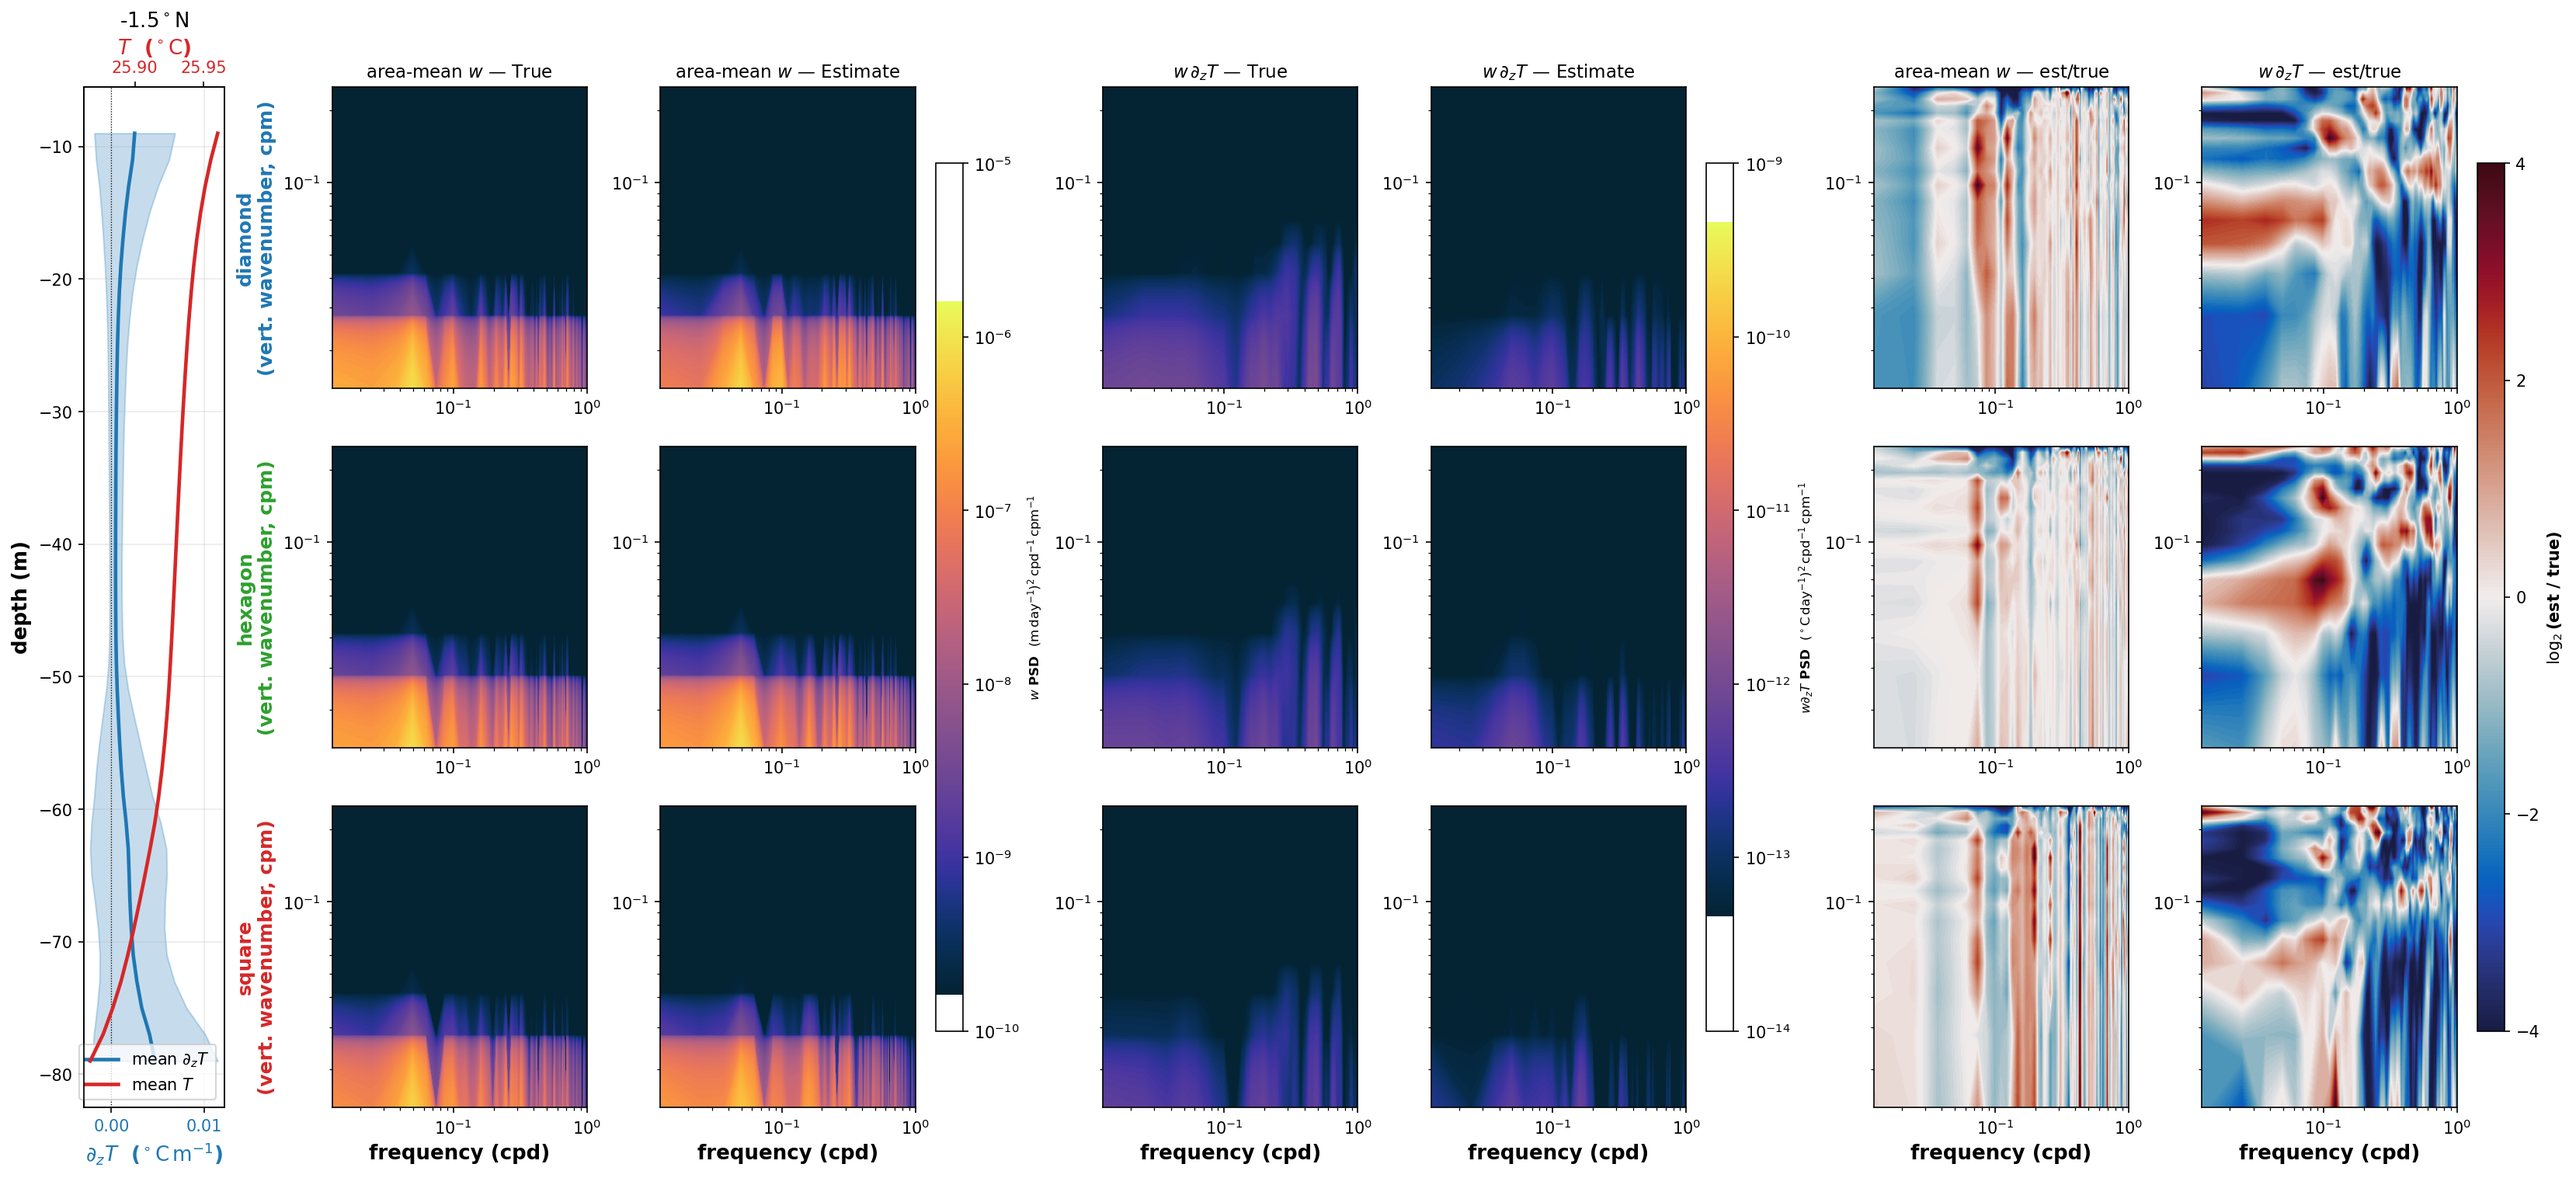
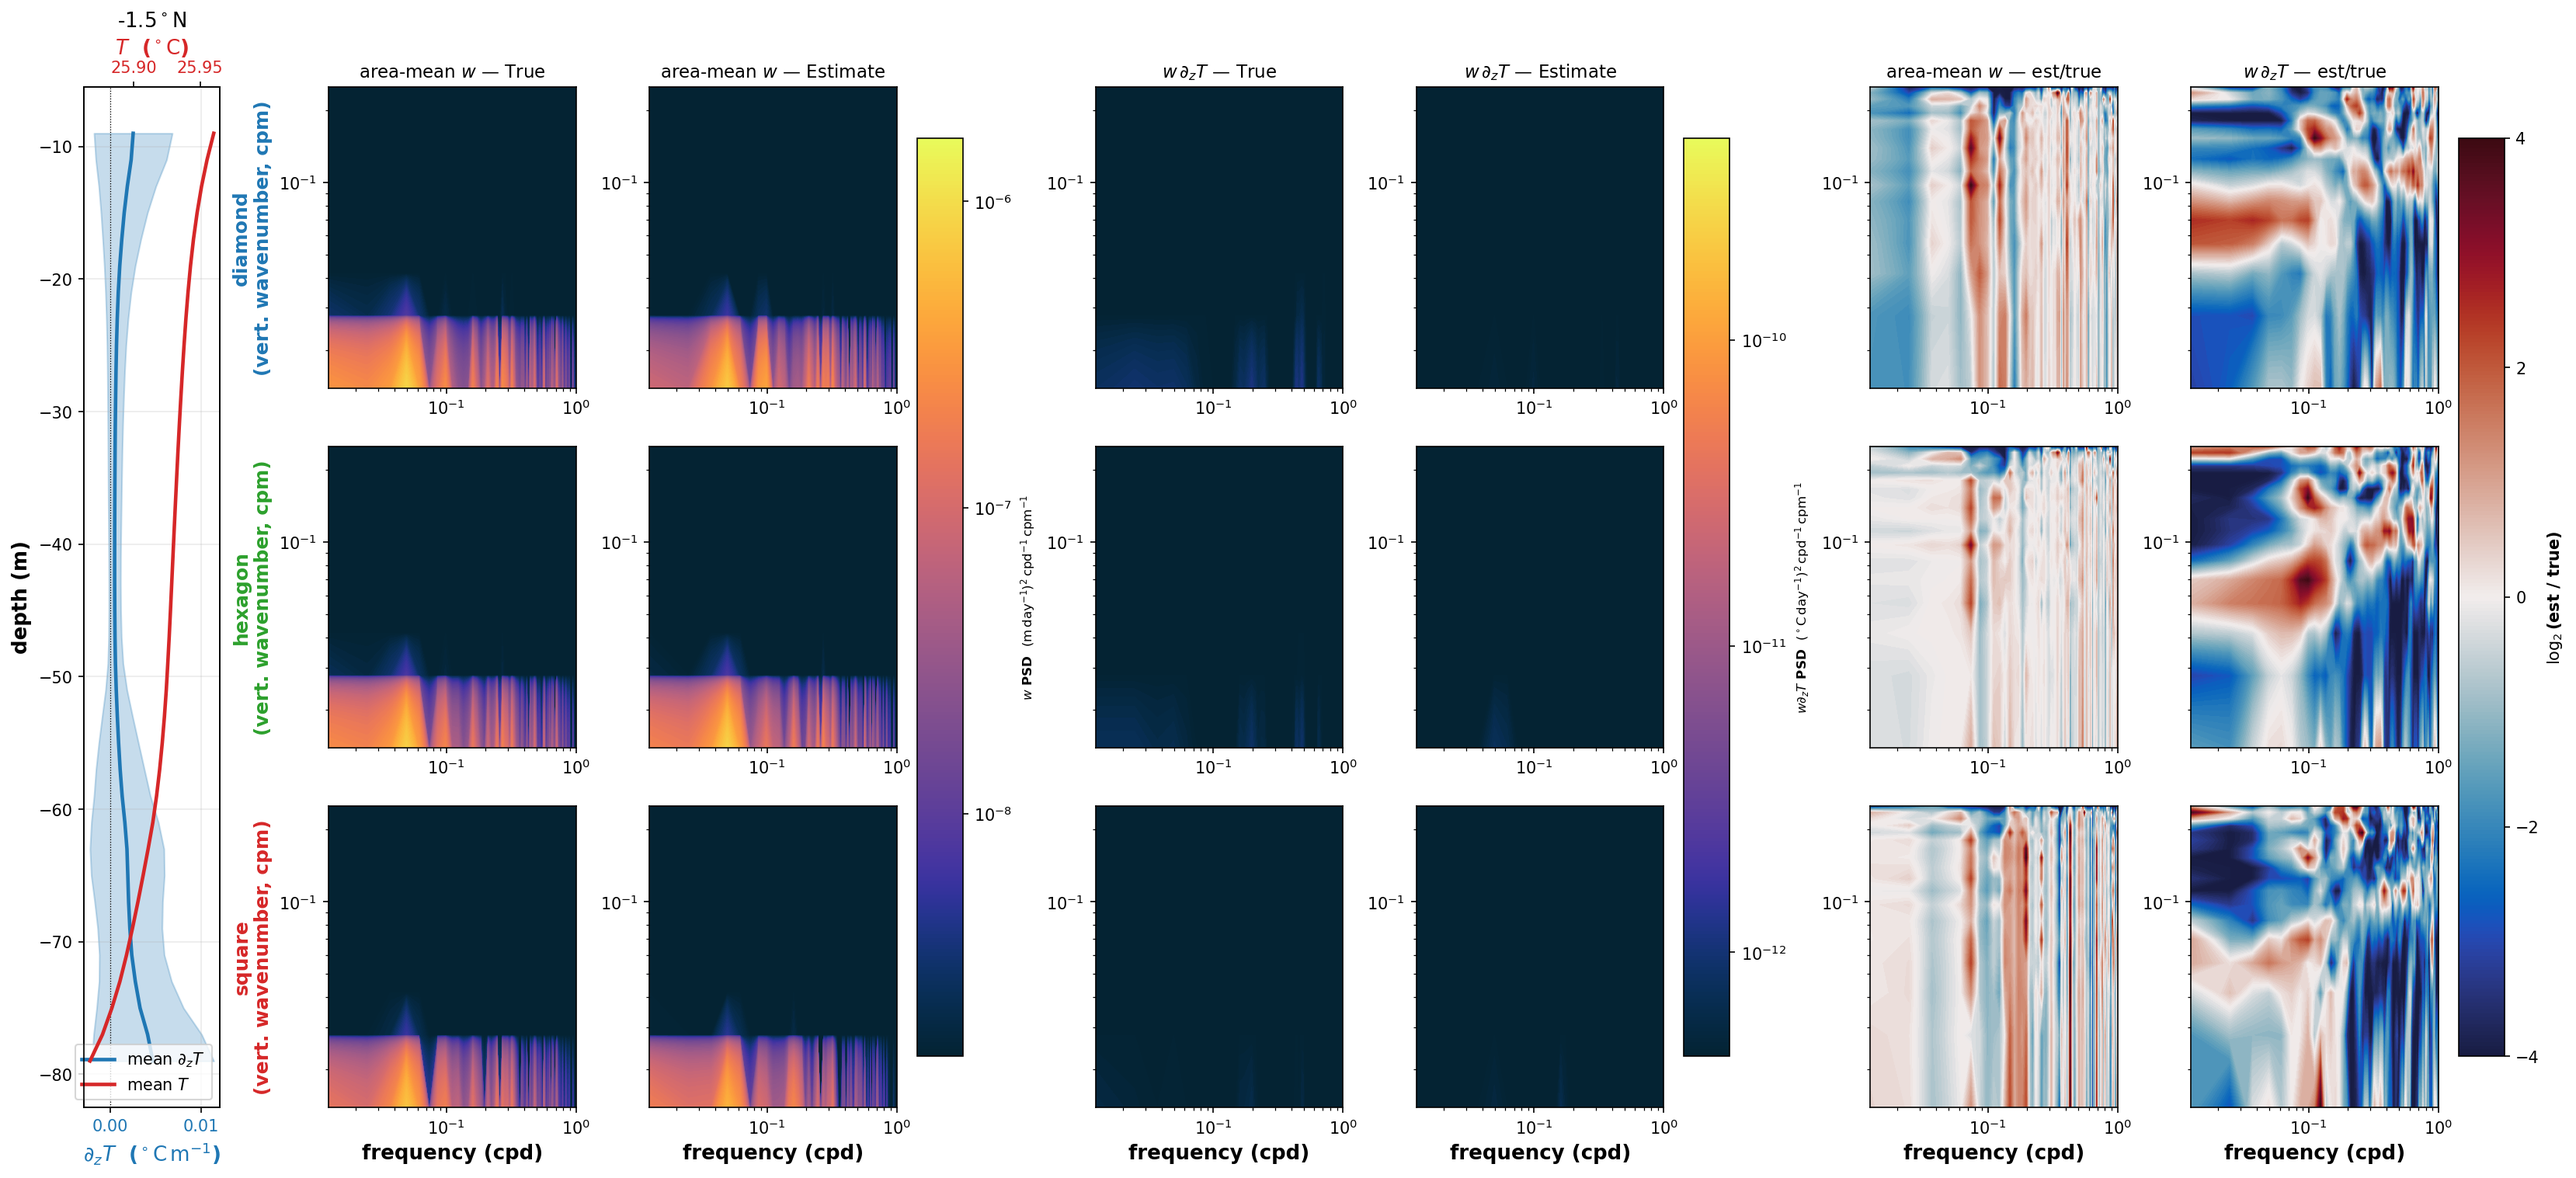
adding spectra figs and reorganizing

diff --git a/experiments/experiment_2/run_spectra.py b/experiments/experiment_2/run_spectra.py
@@ -162,20 +162,23 @@ def _ratio_contourf(ax, fr, kz, St, Se):
 
 
 def _decade_ticks(cb, vmin, vmax):
-    """Clean power-of-ten ticks on a LogNorm colorbar."""
-    dec = [10.0 ** e for e in range(int(np.floor(np.log10(vmin))),
-                                    int(np.ceil(np.log10(vmax))) + 1)]
+    """Clean power-of-ten ticks on a LogNorm colorbar. Ticks are kept strictly
+    INSIDE [vmin, vmax] — out-of-range ticks expand the bar axis past the colored
+    solids and leave white gaps at both ends."""
+    dec = [10.0 ** e for e in range(int(np.ceil(np.log10(vmin))),
+                                    int(np.floor(np.log10(vmax))) + 1)]
     cb.set_ticks(dec)
     cb.ax.yaxis.set_major_formatter(mticker.LogFormatterMathtext())
     cb.ax.minorticks_off()
 
 
 def _psd_colorbar(fig, axes_list, vmin, vmax, label):
-    """Smooth (ScalarMappable) log PSD colorbar — avoids contourf banding gaps."""
+    """Smooth (ScalarMappable) log PSD colorbar. set_aspect('auto') lets the bar
+    fill its allocated axes (a fixed aspect leaves white gaps at both ends)."""
     sm = ScalarMappable(norm=LogNorm(vmin=vmin, vmax=vmax), cmap=cmo.thermal)
     sm.set_array([])
-    cb = fig.colorbar(sm, ax=axes_list, location="right", pad=0.01,
-                      shrink=0.85, aspect=32)
+    cb = fig.colorbar(sm, ax=axes_list, location="right", pad=0.01, shrink=0.9)
+    cb.ax.set_aspect("auto")
     _decade_ticks(cb, vmin, vmax)
     cb.set_label(label, fontsize=8)
     return cb
@@ -185,8 +188,9 @@ def _ratio_colorbar(fig, axes_list):
     sm = ScalarMappable(norm=TwoSlopeNorm(vcenter=0, vmin=-4, vmax=4),
                         cmap=cmo.balance)
     sm.set_array([])
-    cb = fig.colorbar(sm, ax=axes_list, location="right", pad=0.01,
-                      shrink=0.85, aspect=32, ticks=[-4, -2, 0, 2, 4])
+    cb = fig.colorbar(sm, ax=axes_list, location="right", pad=0.01, shrink=0.9,
+                      ticks=[-4, -2, 0, 2, 4])
+    cb.ax.set_aspect("auto")
     cb.set_label(r"$\log_2$(est / true)", fontsize=10)
     return cb
 
@@ -377,8 +381,8 @@ def compute_global_limits(all_fields):
         return (v.min() * 0.5, v.max() * 2.0)
 
     return dict(x=(xmin, FREQ_MAX), y_w=ylim(wy), y_h=ylim(hy),
-                vmin_w=vmax_w * 1e-4, vmax_w=vmax_w,
-                vmin_h=vmax_h * 1e-4, vmax_h=vmax_h)
+                vmin_w=vmax_w * 1e-3, vmax_w=vmax_w,
+                vmin_h=vmax_h * 1e-3, vmax_h=vmax_h)
 
 
 if __name__ == "__main__":

diff --git a/domain/footprint/README.md b/domain/footprint/README.md
@@ -1,6 +1,12 @@
-Footprint maps show error in the depth-/time-mean w (m day⁻¹) that a footprint of a given shape and size makes at every grid point, plane-fit divergence vs. the same true area-mean divergence, ×H. 
+Footprint maps show error in the depth-/time-mean w (m day⁻¹) that a footprint of a given shape and size makes at every grid point, plane-fit divergence vs. the same true area-mean divergence, ×H.
 
-Tier 2 — discrete glider stencil (the realistic one). Fits the plane to only the actual glider positions (6 points for hexagon/square, 4 for square4/diamond). This is exactly what a real array does, so its error bundles two things: the field's nonlinearity and the penalty of sparse, specifically-placed sampling (few points, particular geometry, conditioning).
+## Two tiers
+
+**Tier 2** (`tier2/`) — discrete glider stencil (the realistic one). Fits the plane to only the actual glider positions (6 points for hexagon/square, 4 for square4/diamond). This is exactly what a real array does, so its error bundles two things: the field's nonlinearity and the penalty of sparse, specifically-placed sampling (few points, particular geometry, conditioning).
+
+**Tier 1** (`tier1/`) — dense fit. Fits the plane to *every grid cell inside the footprint hull*, so it removes the sparse-sampling penalty and its error is the plane-fit-to-shape (nonlinearity) part alone — the best that shape could do given the full field under it. **Tier 2 − Tier 1 is therefore the cost of sparse sampling** that particular shape.
+
+Both tiers are rendered on **one shared color scale** (pooled across the two tiers), so tier1 vs tier2 panels are directly comparable and the sparse-sampling penalty reads off by eye (tier1 fainter than tier2).
 
 Summary fig, averages errors zonally/meridionally to compare which shape is best at each latitude/longitude. 
 
@@ -8,8 +14,8 @@ Summary fig, averages errors zonally/meridionally to compare which shape is best
 
 `footprint_werr_*` — the vertical-velocity error described above (m day⁻¹), from `run_footprint_maps.py`.
 
-`footprint_heaterr_*` — the same footprint framework applied to the **vertically-integrated (0–70 m) advective heat flux** ρ₀cp ∫ w ∂T/∂z dz (W m⁻²), from `run_footprint_heat_maps.py`. Estimate = plane-fit continuity w × array-mean ∂T/∂z; truth = model w × ∂T/∂z multiplied point-wise then footprint-averaged (so it keeps the sub-footprint covariance). Same Tier 1/Tier 2 meaning, same shared-scale panels and best-shape summaries.
+`footprint_heaterr_*` — the same footprint framework applied to the **vertically-integrated (0–70 m) advective heat flux** ρ₀cp ∫ w ∂T/∂z dz (W m⁻²) — a flux integrated *across* the 0–70 m layer, not a depth-mean. From `run_footprint_heat_maps.py`. Estimate = plane-fit continuity w × array-mean ∂T/∂z; truth = model w × ∂T/∂z multiplied point-wise then footprint-averaged (so it keeps the sub-footprint covariance). Both tiers (Tier 1 dense hull fit, Tier 2 discrete stencil), same shared-scale panels and best-shape summaries (the crop view uses its own tighter scale, since the off-equator TIW band dwarfs the equatorial deployment region — each of those two scales is pooled across the tiers).
 
-Only the shallowest layer (0–70 m) and the full 3-month window are produced for both products.
+The w error is likewise the error in w **at the 70 m layer base** (depth-mean divergence × 70 m by continuity), not a depth-mean of w. Only the shallowest layer (0–70 m) and the full 3-month window are produced for both products.
 
 **heat maps:** advective heating is a *product* of two fields (w and ∂T/∂z), so unlike w it is not linear in the model field — time-averaging does not commute through it (⟨w ∂zT⟩ = ⟨w̄⟩⟨∂zT̄⟩ + ⟨w′(∂zT)′⟩). A map built from time-mean fields can only carry the **resolved / mean-advection** part ⟨w̄⟩⟨∂zT̄⟩; the temporal eddy-covariance term ⟨w′(∂zT)′⟩ is absent. The spatial footprint operations stay linear per depth level, which is what lets the same convolution/stencil machinery be reused.
